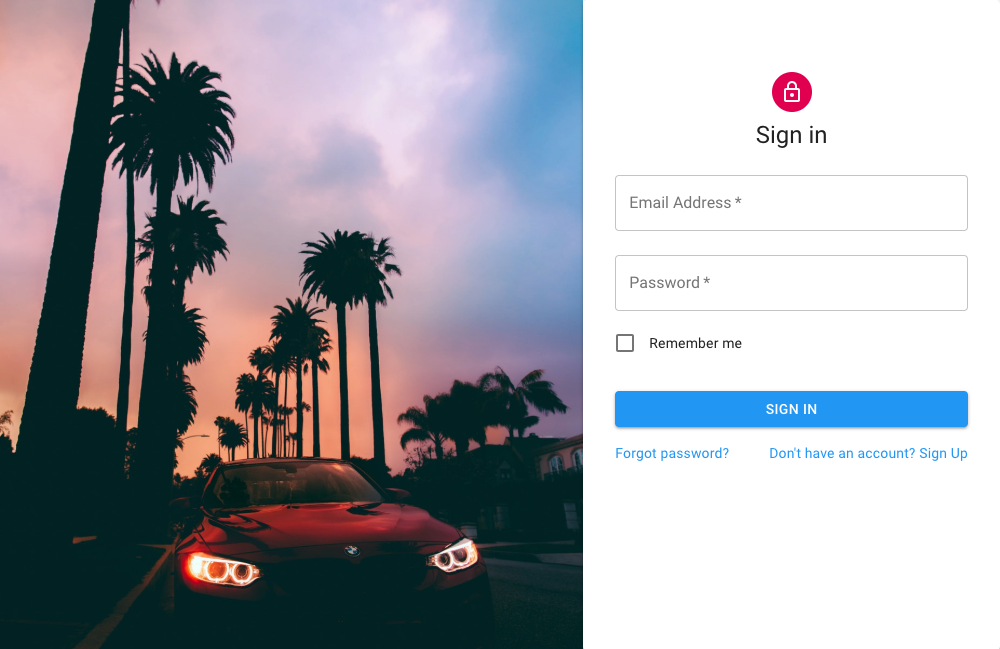
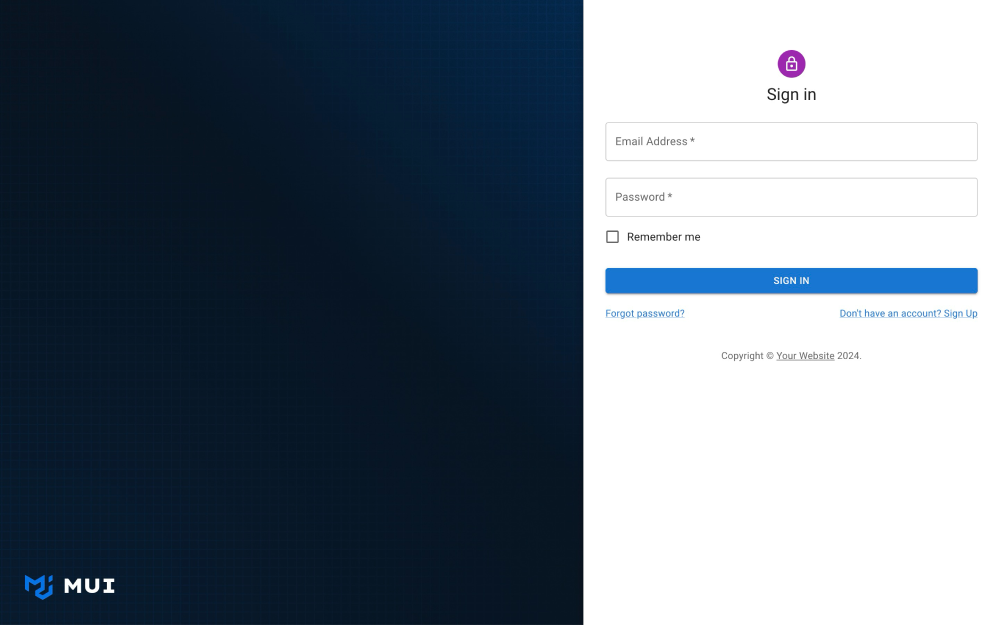
[material-ui][docs] Fix sign in side image (#42708)

diff --git a/docs/data/material/getting-started/templates/sign-in-side/SignInSide.tsx b/docs/data/material/getting-started/templates/sign-in-side/SignInSide.tsx
@@ -49,12 +49,13 @@ export default function SignInSide() {
           sm={4}
           md={7}
           sx={{
-            backgroundImage: 'url(https://source.unsplash.com/random?wallpapers)',
-            backgroundRepeat: 'no-repeat',
+            backgroundImage:
+              'url("/static/images/templates/templates-images/sign-in-side-bg.png")',
+
             backgroundColor: (t) =>
               t.palette.mode === 'light' ? t.palette.grey[50] : t.palette.grey[900],
             backgroundSize: 'cover',
-            backgroundPosition: 'center',
+            backgroundPosition: 'left',
           }}
         />
         <Grid item xs={12} sm={8} md={5} component={Paper} elevation={6} square>

diff --git a/docs/data/material/getting-started/templates/sign-in-side/SignInSide.js b/docs/data/material/getting-started/templates/sign-in-side/SignInSide.js
@@ -50,12 +50,12 @@ export default function SignInSide() {
           sm={4}
           md={7}
           sx={{
-            backgroundImage: 'url(https://source.unsplash.com/random?wallpapers)',
-            backgroundRepeat: 'no-repeat',
+            backgroundImage:
+              'url("/static/images/templates/templates-images/sign-in-side-bg.png")',
             backgroundColor: (t) =>
               t.palette.mode === 'light' ? t.palette.grey[50] : t.palette.grey[900],
             backgroundSize: 'cover',
-            backgroundPosition: 'center',
+            backgroundPosition: 'left',
           }}
         />
         <Grid item xs={12} sm={8} md={5} component={Paper} elevation={6} square>
